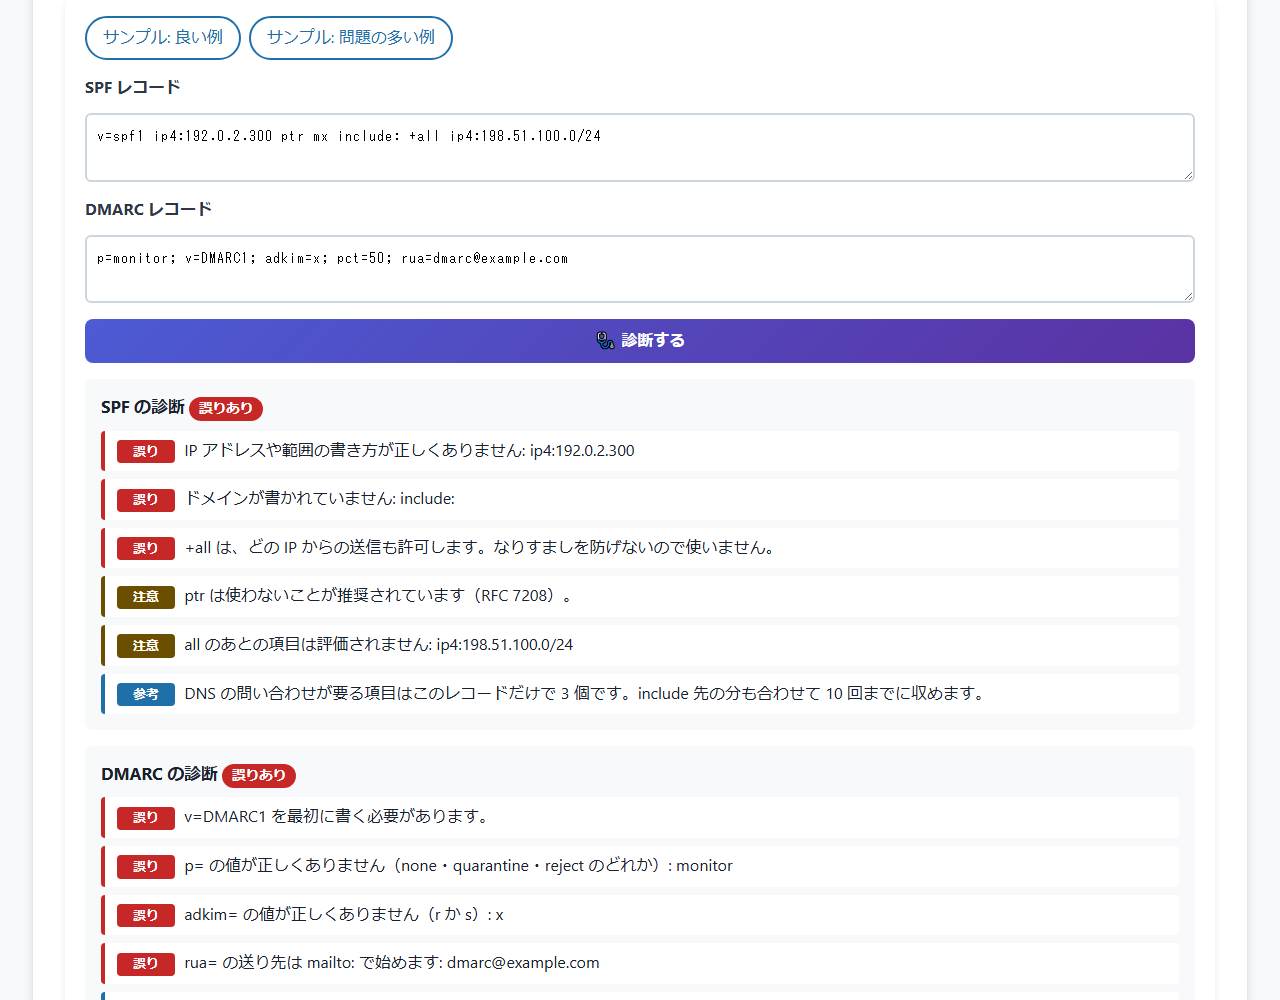
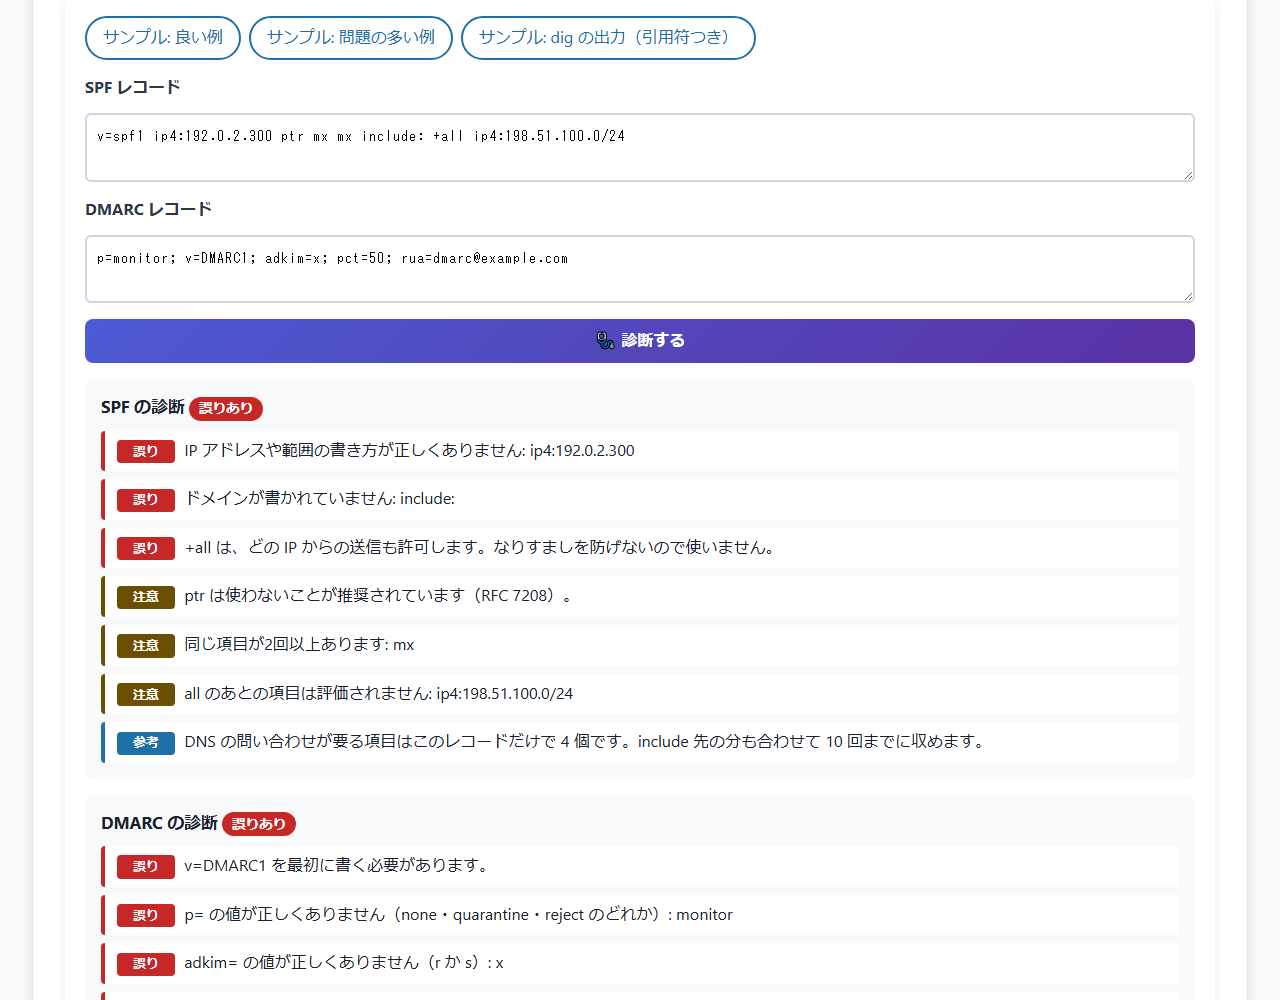
READMEとスクリーンショットを第3弾に合わせて更新

diff --git a/test/readme.test.js b/test/readme.test.js
@@ -50,7 +50,7 @@ test('record checker known answers match the tools in both READMEs', () => {
   const order = { error: 0, warning: 1, info: 2 };
   for (const [lang, heading] of [['ja', '### レコード診断の既知解答'], ['en', '### Record checker known answers']]) {
     const rows = tableAfter(readme[lang], heading);
-    assert.equal(rows.length, 8, lang);
+    assert.equal(rows.length, 11, lang);
     for (const [kind, record, status, text] of rows) {
       const findings = (kind === 'SPF' ? T.lintSpf(record) : T.lintDmarc(record)).sort((a, b) => order[a.level] - order[b.level]);
       assert.equal(T.worst(findings), status, `${lang}: ${record}`);

diff --git a/README.md b/README.md
@@ -109,8 +109,10 @@ SPF・DMARC レコードの書き方の診断と、受信したメールの Auth
 
 - SPF と DMARC のレコードを貼ると、書き方の誤りと危険な設定を「誤り・注意・参考」の3段階で示す
 - SPF: `v=spf1` の位置、レコードの重複、知らない項目、IP アドレスと範囲の書き方、`+all`・`?all`、`all` のあとの項目、`ptr`、DNS の問い合わせ回数（上限10回）、255文字を超える長さ
+- SPF の許可範囲: `ip4:0.0.0.0/0`（`+all` と同じ）は誤り、IPv4 で /16・IPv6 で /32 より広い範囲は注意。同じ項目の重複も注意
+- `dig` の出力をそのまま貼ってもよい。引用符の中の文字列を取り出し、255文字ごとに分けた TXT レコード（`"…" "…"`）は空白なしでつなげる
 - DMARC: `v=DMARC1` が最初にあるか、`p=`・`sp=`・`adkim=`・`aspf=`・`pct=` の値、`rua=`・`ruf=` が `mailto:` で始まるか、タグの重複と知らないタグ、`p=none` の監視止まり、`rua=` がないこと
-- 良い例と問題の多い例のサンプルつき
+- サンプル3件: 良い例、問題の多い例、`dig` の出力（引用符つき・分割あり）
 
 ### 📨 ヘッダー解読
 
@@ -278,6 +280,9 @@ SPF・DMARC レコードの書き方の診断と、受信したメールの Auth
 | SPF | `v=spf1 +all` | `error` | 誤り: +all は、どの IP からの送信も許可します。なりすましを防げないので使いません。 |
 | SPF | `v=spf1 include:_spf.example.net` | `warning` | 注意: all も redirect= もありません。どれにも一致しない送信元は neutral になります。<br>参考: DNS の問い合わせが要る項目はこのレコードだけで 1 個です。include 先の分も合わせて 10 回までに収めます。 |
 | SPF | `v=spf1 ip4:192.0.2.300 ptr -all ip4:198.51.100.0/24` | `error` | 誤り: IP アドレスや範囲の書き方が正しくありません: ip4:192.0.2.300<br>注意: ptr は使わないことが推奨されています（RFC 7208）。<br>注意: all のあとの項目は評価されません: ip4:198.51.100.0/24<br>参考: DNS の問い合わせが要る項目はこのレコードだけで 1 個です。include 先の分も合わせて 10 回までに収めます。<br>参考: -all で、ほかの送信元を fail にしています。 |
+| SPF | `example.com. 300 IN TXT "v=spf1 ip4:192.0.2.0/24 " "include:_spf.example.net -all"` | `ok` | 参考: 引用符を外し、2 個の文字列を空白なしでつなげて診断しました（255文字ごとに分けた TXT レコードの読み方）。<br>参考: DNS の問い合わせが要る項目はこのレコードだけで 1 個です。include 先の分も合わせて 10 回までに収めます。<br>参考: -all で、ほかの送信元を fail にしています。 |
+| SPF | `v=spf1 ip4:0.0.0.0/0 -all` | `error` | 誤り: ip4:0.0.0.0/0 は、すべての IP アドレスを許可します。+all と同じで、なりすましを防げません。<br>参考: -all で、ほかの送信元を fail にしています。 |
+| SPF | `v=spf1 ip4:192.0.0.0/8 mx mx -all` | `warning` | 注意: ip4:192.0.0.0/8 は範囲が広すぎます（/16 より広い）。送信に使うサーバーの範囲だけにします。<br>注意: 同じ項目が2回以上あります: mx<br>参考: DNS の問い合わせが要る項目はこのレコードだけで 2 個です。include 先の分も合わせて 10 回までに収めます。<br>参考: -all で、ほかの送信元を fail にしています。 |
 | DMARC | `v=DMARC1; p=reject; sp=reject; rua=mailto:dmarc@example.com` | `ok` | 参考: p=reject で、失敗したメールの拒否を求めています。 |
 | DMARC | `v=DMARC1; p=none` | `warning` | 注意: rua=（集計レポートの送り先）がありません。正当な送信元の確認に役立ちます。<br>参考: p=none は監視だけです。集計レポートで確かめてから quarantine、reject へ強めます。<br>参考: sp= がないので、サブドメインにも p=none が使われます。 |
 | DMARC | `p=reject; v=DMARC1; adkim=x; rua=dmarc@example.com` | `error` | 誤り: v=DMARC1 を最初に書く必要があります。<br>誤り: adkim= の値が正しくありません（r か s）: x<br>誤り: rua= の送り先は mailto: で始めます: dmarc@example.com<br>参考: p=reject で、失敗したメールの拒否を求めています。<br>参考: sp= がないので、サブドメインにも p=reject が使われます。 |

diff --git a/README.en.md b/README.en.md
@@ -74,8 +74,10 @@ It can also check how SPF and DMARC records are written and read the Authenticat
 
 - Paste SPF and DMARC records to see syntax errors and risky settings as errors, warnings and notes
 - SPF: position of `v=spf1`, duplicate records, unknown terms, address and range syntax, `+all` and `?all`, terms after `all`, `ptr`, the DNS lookup count (limit 10) and length over 255 characters
+- SPF ranges: `ip4:0.0.0.0/0` (the same as `+all`) is an error, and pass ranges wider than /16 for IPv4 or /32 for IPv6 are warnings. Duplicate terms are warnings too
+- You can paste `dig` output as is. The quoted strings are taken out, and a TXT record split every 255 characters (`"…" "…"`) is joined without spaces
 - DMARC: `v=DMARC1` first, values of `p=`, `sp=`, `adkim=`, `aspf=` and `pct=`, `mailto:` in `rua=` and `ruf=`, duplicate and unknown tags, `p=none` staying at monitoring, and a missing `rua=`
-- Samples of a good record and a record with problems
+- Three samples: a good record, a record with problems, and `dig` output (quoted and split)
 
 ### 📨 Header reader
 
@@ -243,6 +245,9 @@ Results of `lintSpf()` and `lintDmarc()` in `js/mailauth-tools.js`.
 | SPF | `v=spf1 +all` | `error` | Error: +all allows mail from any IP address. It cannot stop spoofing; do not use it. |
 | SPF | `v=spf1 include:_spf.example.net` | `warning` | Warning: There is neither all nor redirect=. Senders that match nothing get neutral.<br>Note: This record alone has 1 terms that need DNS lookups. Keep the total, including nested includes, within 10. |
 | SPF | `v=spf1 ip4:192.0.2.300 ptr -all ip4:198.51.100.0/24` | `error` | Error: The address or range is malformed: ip4:192.0.2.300<br>Warning: ptr should not be used (RFC 7208).<br>Warning: Terms after all are never evaluated: ip4:198.51.100.0/24<br>Note: This record alone has 1 terms that need DNS lookups. Keep the total, including nested includes, within 10.<br>Note: -all makes other senders fail. |
+| SPF | `example.com. 300 IN TXT "v=spf1 ip4:192.0.2.0/24 " "include:_spf.example.net -all"` | `ok` | Note: Quotes were removed and 2 strings were joined without spaces before checking (how a TXT record split every 255 characters is read).<br>Note: This record alone has 1 terms that need DNS lookups. Keep the total, including nested includes, within 10.<br>Note: -all makes other senders fail. |
+| SPF | `v=spf1 ip4:0.0.0.0/0 -all` | `error` | Error: ip4:0.0.0.0/0 allows every IP address. It is the same as +all and cannot stop spoofing.<br>Note: -all makes other senders fail. |
+| SPF | `v=spf1 ip4:192.0.0.0/8 mx mx -all` | `warning` | Warning: ip4:192.0.0.0/8 is too broad (wider than /16). List only the ranges of your sending servers.<br>Warning: The same term appears more than once: mx<br>Note: This record alone has 2 terms that need DNS lookups. Keep the total, including nested includes, within 10.<br>Note: -all makes other senders fail. |
 | DMARC | `v=DMARC1; p=reject; sp=reject; rua=mailto:dmarc@example.com` | `ok` | Note: p=reject asks receivers to reject failing mail. |
 | DMARC | `v=DMARC1; p=none` | `warning` | Warning: There is no rua= (where aggregate reports go). Reports help confirm legitimate senders.<br>Note: p=none only monitors. Check the aggregate reports, then move to quarantine and then reject.<br>Note: There is no sp=, so subdomains also use p=none. |
 | DMARC | `p=reject; v=DMARC1; adkim=x; rua=dmarc@example.com` | `error` | Error: v=DMARC1 must come first.<br>Error: Invalid adkim= value (use r or s): x<br>Error: The rua= destination must start with mailto: dmarc@example.com<br>Note: p=reject asks receivers to reject failing mail.<br>Note: There is no sp=, so subdomains also use p=reject. |
